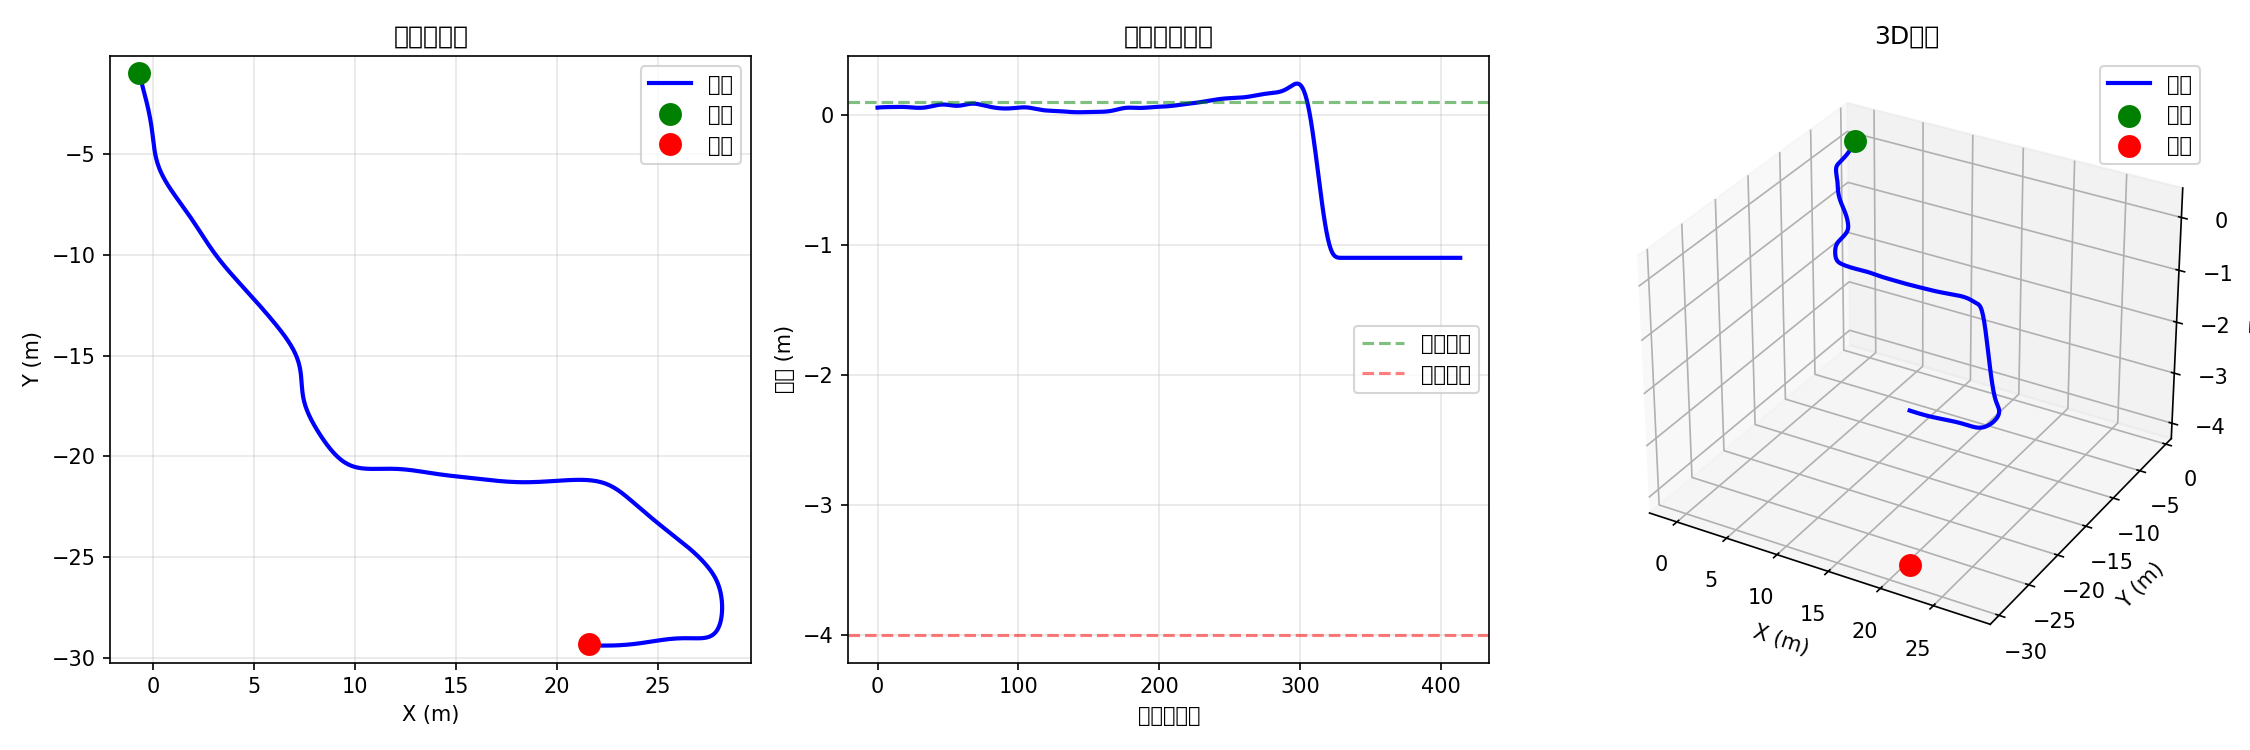
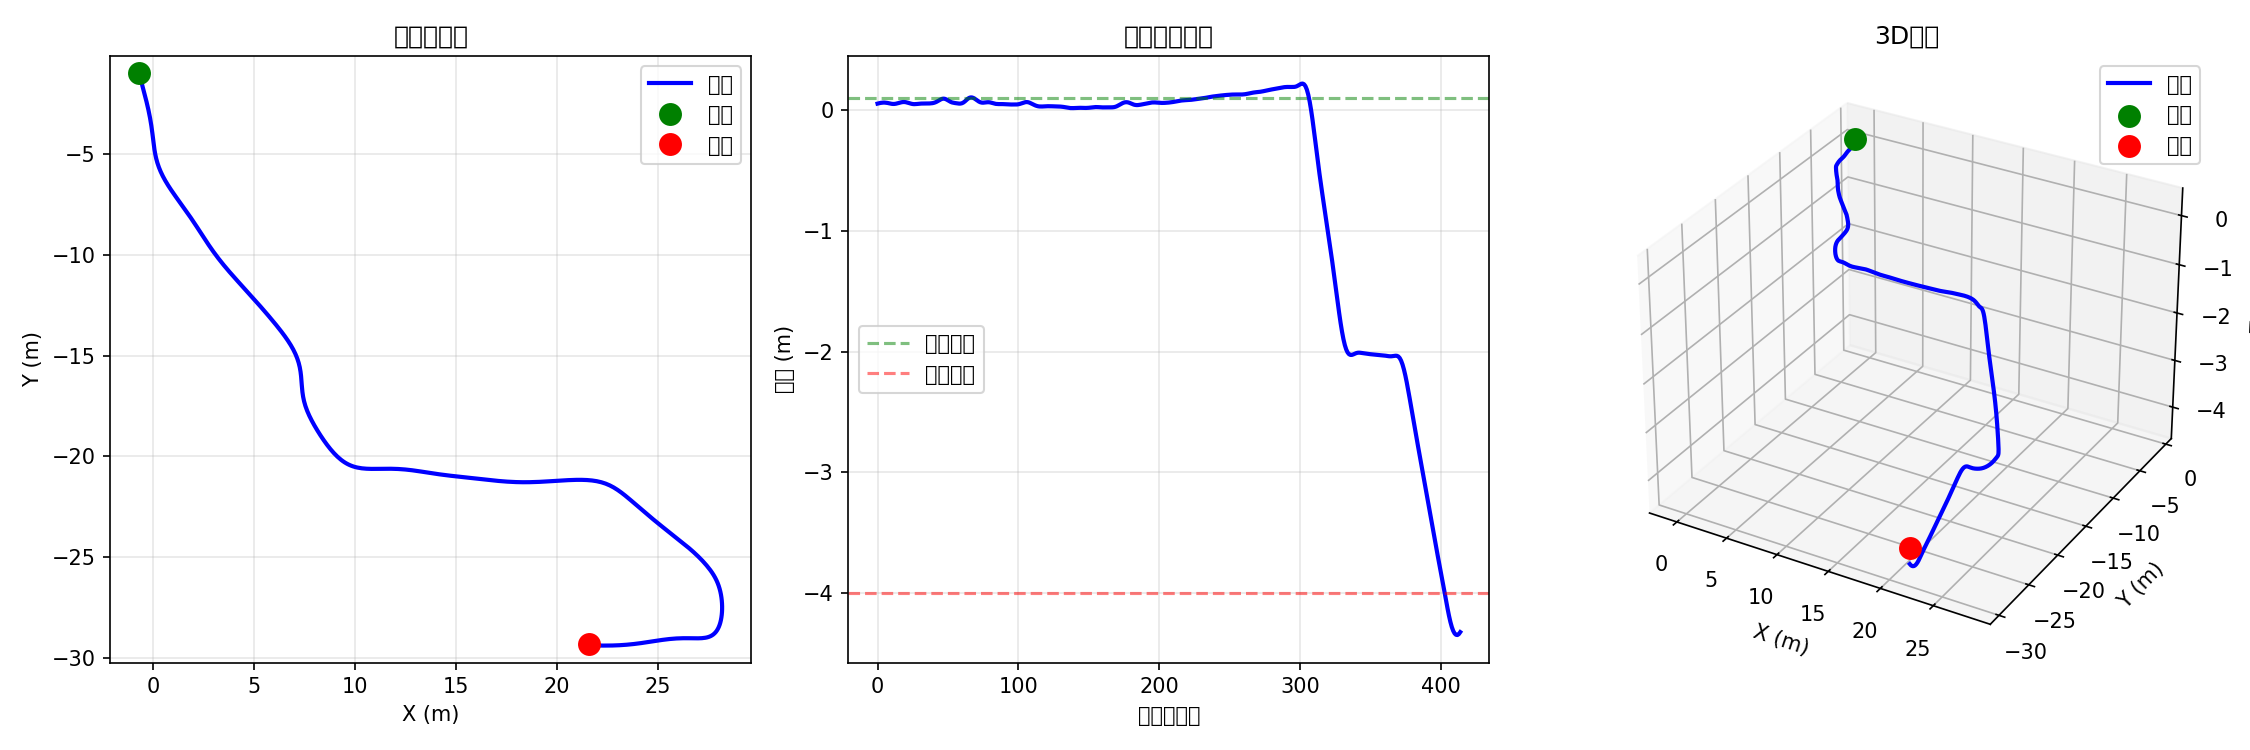
Refactor height smoothing logic in trajectory optimization
- Updated lower and upper bounds in `HeightSmoother::Smooth` to use dynamic values based on the coarse height, allowing for a maximum descent of 0.8m to prevent excessive deviation from the ground.
- Increased the reference line weight in the kernel matrix from 1 to 100 to ensure tighter adherence to the A* path, particularly in areas with significant height changes.

diff --git a/planner/lib/src/trajectory_optimization/height_smoother/height_smoother.cc b/planner/lib/src/trajectory_optimization/height_smoother/height_smoother.cc
@@ -19,8 +19,10 @@ Eigen::VectorXd HeightSmoother::Smooth(const Eigen::VectorXd& coarse_height,
   }
 
   for (int i = 0; i < coarse_height.size(); ++i) {
-    lbs.emplace_back(-1.0);
-    ubs.emplace_back(std::max(-1.0, upper_bound(i) - 0.3));
+    // 使用A*路径高度减去一个安全余量作为下界，而不是固定-1.0
+    // 这样可以防止轨迹过度偏离地面
+    lbs.emplace_back(coarse_height(i) - 0.8);  // 允许最多下降0.8m
+    ubs.emplace_back(std::max(coarse_height(i) - 0.8, upper_bound(i) - 0.3));
     refs.emplace_back(coarse_height(i));
     ts.emplace_back(i * dt);
   }
@@ -30,7 +32,9 @@ Eigen::VectorXd HeightSmoother::Smooth(const Eigen::VectorXd& coarse_height,
   kernel->AddRegularization(1e-5);
   // kernel->AddSecondOrderDerivativeMatrix(5);
   kernel->AddThirdOrderDerivativeMatrix(30);
-  kernel->AddReferenceLineKernelMatrix(ts, refs, 1);
+  // 关键修改：大幅增加参考线权重，从1提高到100
+  // 这样优化器会更紧密跟随A*路径，尤其是在楼梯等大高度变化区域
+  kernel->AddReferenceLineKernelMatrix(ts, refs, 100);
   auto constraint = solver.mutable_constraint();
   constraint->AddThirdDerivativeSmoothConstraint();
   constraint->AddPointConstraint(ts.front(), coarse_height(0));

diff --git a/轨迹平滑问题分析.md b/轨迹平滑问题分析.md
@@ -1,0 +1,111 @@
+# 轨迹平滑导致楼梯处水平化问题分析
+
+## 问题描述
+在楼梯下降段，优化后的轨迹完全水平，没有跟随地面下降，高度误差达到3m。
+
+## 根本原因
+
+### 1. 下界约束过于宽松
+**位置**：`height_smoother.cc` 第22行
+
+```cpp
+lbs.emplace_back(-1.0);  // 下界固定为-1.0，太宽松！
+```
+
+**问题**：所有点的下界都是-1.0，允许轨迹高度在很大范围内变化，没有强制要求贴合地面。
+
+### 2. 平滑权重远大于参考线权重
+**位置**：`height_smoother.cc` 第32-33行
+
+```cpp
+kernel->AddThirdOrderDerivativeMatrix(30);      // 平滑项权重 = 30
+kernel->AddReferenceLineKernelMatrix(ts, refs, 1);  // 参考线权重 = 1
+```
+
+**问题**：优化器优先考虑"平滑性"（最小化三阶导数），而不是跟随A*原始路径。在楼梯这种大高度变化区域，为了平滑性会严重偏离原始路径。
+
+### 3. 优化目标不平衡
+HeightSmoother的优化目标是：
+
+```
+minimize: 30 * (三阶导数)^2 + 1 * (高度 - 参考高度)^2
+subject to: -1.0 <= 高度 <= upper_bound - 0.3
+```
+
+在楼梯处，如果保持跟随A*路径（高度变化大），三阶导数会很大，代价也大。
+如果变成水平（高度不变），三阶导数接近0，虽然偏离参考线，但总代价可能更小。
+
+**30:1的权重比导致优化器选择了"平滑但偏离"的解。**
+
+## 解决方案
+
+### 方案1：增加参考线权重（推荐）
+修改`height_smoother.cc`第33行：
+
+```cpp
+// 从权重1提高到50或100
+kernel->AddReferenceLineKernelMatrix(ts, refs, 50);  // 或100
+```
+
+**效果**：强制优化器更紧密跟随A*原始路径，减少在楼梯处的偏离。
+
+### 方案2：使用地面高度作为下界
+修改`height_smoother.cc`第22行：
+
+```cpp
+// 使用地面高度作为下界，而不是固定的-1.0
+// 需要传入ground_height参数
+lbs.emplace_back(ground_height(i));  
+```
+
+**效果**：强制轨迹高度不能低于地面，防止过度平滑导致穿地或浮空。
+
+### 方案3：降低平滑权重
+修改`height_smoother.cc`第32行：
+
+```cpp
+// 从权重30降低到5-10
+kernel->AddThirdOrderDerivativeMatrix(10);
+```
+
+**效果**：允许轨迹有更大的曲率变化，适应楼梯等地形。
+
+### 方案4：自适应权重（最佳但复杂）
+根据路径段的高度变化自适应调整权重：
+
+```cpp
+double height_change = std::abs(coarse_height(i) - coarse_height(i-1));
+double ref_weight = height_change > 0.5 ? 50.0 : 1.0;  // 楼梯处增加参考线权重
+```
+
+## 推荐修改方案
+
+### 快速修复（简单有效）
+修改`height_smoother.cc`：
+
+```cpp
+// 第22行：使用实际地面高度（如果可获取）
+lbs.emplace_back(coarse_height(i) - 0.5);  // 允许最多下降0.5m
+
+// 第33行：大幅增加参考线权重
+kernel->AddReferenceLineKernelMatrix(ts, refs, 100);  // 从1提高到100
+```
+
+### 完整修复（需要修改接口）
+1. 修改`HeightSmoother::Smooth`接口，添加`lower_bound`参数
+2. 传入实际地面高度作为下界
+3. 根据高度变化自适应调整平滑和参考线权重
+
+## 为什么A*路径正确但优化后错误？
+
+1. **A*阶段**：选择有效的地面节点，高度完全跟随tomogram ✓
+2. **GPMP优化阶段**：只优化XY位置和速度，高度从A*继承 ✓
+3. **高度平滑阶段**：重新优化高度，此时问题出现 ✗
+
+HeightSmoother在第178行被调用：
+```cpp
+opt_height_ = height_smoother_.Smooth(opt_height_, opt_ceiling_, tau, N, dt);
+```
+
+这一步破坏了A*路径的正确高度！
+
